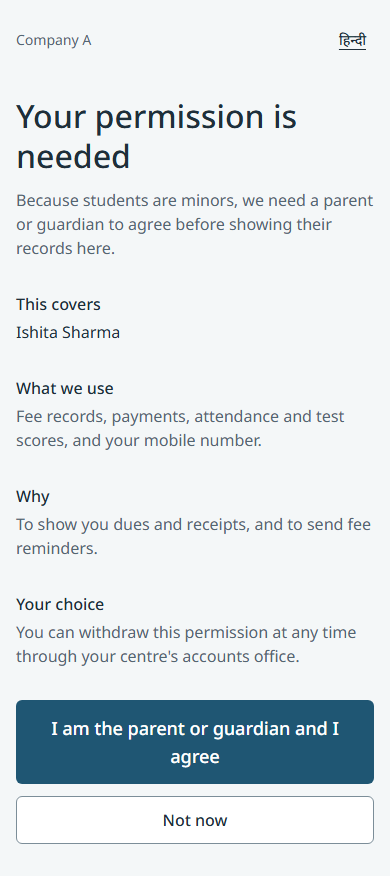
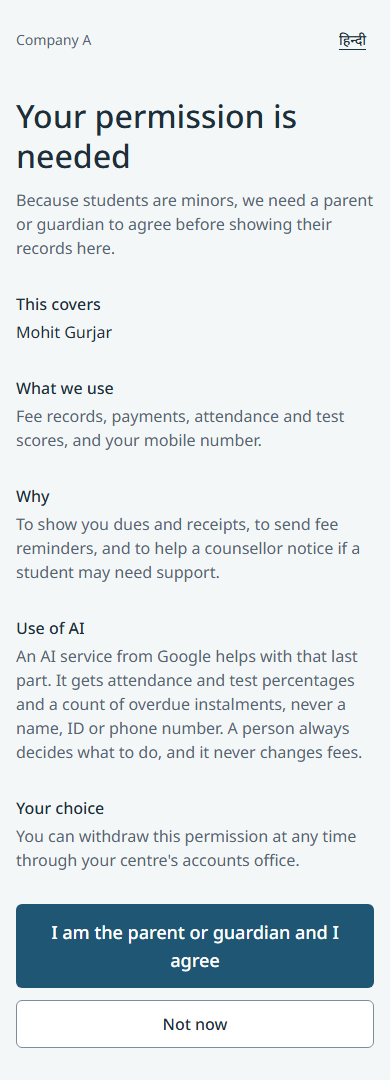
docs: record that the AI gives the flag

diff --git a/public/guide/index.html b/public/guide/index.html
@@ -157,7 +157,7 @@ dialog button { display: block; margin: 8px auto 0; }
     <button class="chip" data-show="reviewer" aria-pressed="false">Reviewer</button>
   </div>
   <div class="card figures">
-    <div><b>395</b><span>tests passing</span></div>
+    <div><b>412</b><span>tests passing</span></div>
     <div><b>60</b><span>fictional students</span></div>
     <div><b>130</b><span>days replayed</span></div>
     <div><b>81</b><span>receipts from real code</span></div>
@@ -236,7 +236,7 @@ dialog button { display: block; margin: 8px auto 0; }
   <p>A parent picks a language, enters their number and types the code. SMS is mocked, so the code shows on screen in the demo. Most students are minors, so nothing is shown until a parent agrees, as the DPDP Act 2023 needs.</p>
   <div class="phones">
     <figure><button data-zoom aria-label="Enlarge sign-in"><img src="img/sign-in.png" alt="Sign-in screen with language choice and mobile number" loading="lazy"></button><figcaption>One field and a language choice.</figcaption></figure>
-    <figure><button data-zoom aria-label="Enlarge consent"><img src="img/consent.png" alt="Consent screen naming the child and the data used" loading="lazy"></button><figcaption>Consent is stored per child, with a notice version.</figcaption></figure>
+    <figure><button data-zoom aria-label="Enlarge consent"><img src="img/consent.png" alt="Consent screen naming the child and the data used" loading="lazy"></button><figcaption>Consent is stored per child, with a notice version, and it names the use of AI.</figcaption></figure>
   </div>
 </section>
 
@@ -322,8 +322,8 @@ dialog button { display: block; margin: 8px auto 0; }
 
 <section id="tasks" data-for="accounts reviewer">
   <h2>Call tasks: the dropout-risk flag</h2>
-  <p>The flag reads missed instalments, falling attendance and test trends. It only ever creates a call task. It never touches fees and never messages a parent. Counsellors mark false flags, and with too little data it says so and creates no task.</p>
-  <p><b>Try it:</b> see how points become a band. Late fees alone never flag anyone.</p>
+  <p>Gemini gives the flag from missed instalments, falling attendance and test trends. It only ever creates a call task. It never touches fees and never messages a parent. Counsellors mark false flags, and with too little data it says so and creates no task.</p>
+  <p><b>Try it:</b> this is the plain rule that takes over when the AI is unsure. Late fees alone never flag anyone.</p>
   <div class="card">
     <div class="fields">
       <div class="field"><label for="rAtt">Attendance fall, points</label><input id="rAtt" type="number" min="0" max="100" value="41"></div>
@@ -337,21 +337,22 @@ dialog button { display: block; margin: 8px auto 0; }
 
 <section id="ai" data-for="reviewer accounts director">
   <h2>The AI layer</h2>
-  <p>The brief asks for AI that works, including when it is wrong or unsure. So the AI only ever drafts or suggests, and it lives inside the screens staff already use.</p>
+  <p>The brief says "an AI flag" and asks what happens when it is wrong or unsure. So Gemini gives the flag, code holds the brief's hard lines around it, and it all lives inside the screens staff already use.</p>
   <div class="scroll"><table>
     <tr><th>Part</th><th>What it does</th><th>When it is wrong or unsure</th></tr>
+    <tr><td>The flag</td><td>Gemini reads anonymous records and gives each student a band. On the sample it flagged a student the rule had passed</td><td>If it is unsure or fails, the rule decides, and the task says who decided. Too little data is never judged, and late fees alone cannot flag</td></tr>
     <tr><td>Batch baseline</td><td>Learns each batch's normal pattern, so a dip the whole batch shares, like exam week, is not blamed on anyone</td><td>Under 3 students it learns nothing, and the plain rule applies</td></tr>
     <tr><td>Learning from outcomes</td><td>The Risk Lab proposes better numbers from who left and which flags counsellors called false</td><td>A person decides. Under 3 cases it says so</td></tr>
     <tr><td>Call guide</td><td>Gemini drafts a guide in the parent's language</td><td>A draft with money talk, links or placeholders is thrown away for a plain template</td></tr>
     <tr><td>Payer notes</td><td>Gemini reads notes like "doosri kist ka advance", and our code matches them to real students</td><td>It only narrows a suggestion. Money stays unmatched until a person applies it</td></tr>
   </table></div>
   <div class="pair">
-    <figure><button data-zoom aria-label="Enlarge AI call guide"><img src="img/staff-tasks-ai.png" alt="Call tasks with AI drafted call guides, labelled as AI" loading="lazy"></button><figcaption>Real Gemini output, labelled as AI. The last task shows the plain fallback.</figcaption></figure>
+    <figure><button data-zoom aria-label="Enlarge AI call guide"><img src="img/staff-tasks-ai.png" alt="Call tasks with AI drafted call guides, labelled as AI" loading="lazy"></button><figcaption>Real Gemini output. Each task says whether AI or the rule gave it, and what the rule alone said.</figcaption></figure>
     <figure><button data-zoom aria-label="Enlarge AI note reading"><img src="img/staff-books-ai.png" alt="Accounts queue with a suggestion from a payer's note" loading="lazy"></button><figcaption>The note pointed to Mohit's second instalment. A person still decides.</figcaption></figure>
     <figure><button data-zoom aria-label="Enlarge learned numbers"><img src="img/staff-lab-learn.png" alt="Risk lab proposing better numbers" loading="lazy"></button><figcaption>Numbers learned from outcomes, proposed and never applied by itself.</figcaption></figure>
     <figure><button data-zoom aria-label="Enlarge audit of AI use"><img src="img/staff-audit.png" alt="Audit log showing what was sent to the model" loading="lazy"></button><figcaption>The audit log shows exactly what was sent: <code>NAME_1</code>, never the name.</figcaption></figure>
   </div>
-  <p class="note">Gemini never sees a name, ID or phone number, and the fee reason is never sent. With no key, or if the service fails, every step falls back to plain rules, so nothing breaks.</p>
+  <p class="note">Gemini never sees a name, ID, phone number or amount. It gets a made-up id, percentages and an overdue count, and parents are told this in the consent notice. With no key, or if the service fails, every step falls back to plain rules, so nothing breaks.</p>
 </section>
 
 <section id="console" data-for="reviewer">
@@ -403,7 +404,7 @@ dialog button { display: block; margin: 8px auto 0; }
 <section id="lab" data-for="reviewer director">
   <span class="tag">What sets it apart · 4</span>
   <h2>Risk lab</h2>
-  <p>There is no real dropout history to train on, and a model on invented data would give a fake accuracy number. So this page tests the rule instead: it replays the term using only what was known each day, and shows who it caught and who it missed. It can also propose better numbers from what really happened.</p>
+  <p>There is no real dropout history to train on, and a model trained on invented data would give a fake accuracy number. So this page tests the fallback rule: it replays the term using only what was known each day, and shows who it caught and who it missed. It can also propose better numbers from what really happened.</p>
   <div class="pair">
     <figure><button data-zoom aria-label="Enlarge lab"><img src="img/staff-lab-live.png" alt="Risk lab showing 4 of 6 leavers flagged" loading="lazy"></button><figcaption>4 of 6 leavers flagged, with 21 days' average warning. It shows the 2 it missed.</figcaption></figure>
     <figure><button data-zoom aria-label="Enlarge what-if"><img src="img/staff-lab.png" alt="Risk lab with changed numbers showing who would be added" loading="lazy"></button><figcaption>Change a number to see who would be added or dropped. Nothing changes live.</figcaption></figure>

diff --git a/docs/TDD.md b/docs/TDD.md
@@ -36,7 +36,7 @@ Fee Tracker gives parents their dues on a phone in five seconds, in Hindi or Eng
 | Manual payments | Built | Same matching code as the webhook |
 | Reminders that stop on payment | Built | Hindi and English, before, on and after, continuing until paid, with a mock sender |
 | Dues dashboard, ageing, Tally export | Built | Filters by centre and batch. CSV of receipts with GST split |
-| AI dropout-risk flag | Built | Band with reasons, learned batch baseline, and an AI call guide. Call tasks only, with false-flag marking and rate |
+| AI dropout-risk flag | Built | Gemini gives the flag, with rules as fallback. Call tasks only, with false-flag marking and rate |
 | Parent attendance and test scores | Built | Optional depth. Own page behind the instalments page, in Hindi and English |
 | Bulk upload of attendance and scores | Built | Optional depth. CSV per batch, with a preview and all-or-nothing saving |
 | Reviewer console | Built | Level-up. Time machine over the real pipeline, demo mode only |
@@ -108,7 +108,7 @@ The core choices are below. The level-up and data pipeline choices are in [decis
 
 ## 5. Data Model
 
-16 tables, 14 migrations. The core of it:
+16 tables, 15 migrations. The core of it:
 
 ```mermaid
 erDiagram
@@ -327,9 +327,9 @@ A separate page reached from the instalments page. It shows classes attended in 
 | Reminders | Built | Balance rechecked at send time. Failed sends are retried |
 | Dropout-risk flag | Built | Creates a call task only. Counsellors mark false flags. Too little data creates no task. The Risk Lab tests the rule |
 
-**Dropout-risk flag.** It runs daily from a protected route or a staff button, and reads missed instalments, attendance and test scores.
+**Dropout-risk flag.** Gemini gives the flag, and the rule below is its fallback. It runs daily from a protected route or a staff button, and reads missed instalments, attendance and test scores.
 
-- **Method:** transparent points in `src/domain/risk.ts`, measured against a learned batch baseline, not a trained model. There is no real dropout history to train on, and a counsellor must be able to see why a student was flagged. The AI layer below learns what it honestly can from the data available. The review data it collects is what a trained model would need later.
+- **Method:** one call per run sends Gemini each student with a sign, under a made-up id, as percentages and an overdue count. It returns a band, a confidence and a reason. The transparent points in `src/domain/risk.ts`, measured against a learned batch baseline, decide when it cannot. This is a general model judging records, not one trained on dropouts, because no such history exists.
 - **Attendance:** the last 4 weeks against earlier weeks. A fall of 15 points scores 1, and 30 points scores 2.
 - **Tests:** the last 2 tests against earlier tests. A fall of 10 points scores 1, and 20 points scores 2.
 - **Missed instalments:** 1 overdue scores 1, and 2 or more scores 2.
@@ -343,12 +343,15 @@ A separate page reached from the instalments page. It shows classes attended in 
 
 | Part | What it does | When it is wrong or unsure |
 |---|---|---|
+| The flag | Gemini gives the band for each student with a sign, and can add or clear a flag | Low confidence, a failure or no key means the rule decides, and the task says so. Too little data is never sent, late fees alone cannot flag, and figures come from our records |
 | Batch baseline | Learns each batch's typical fall, by median, and counts only a student's fall beyond it | Under 3 students, it learns nothing and the plain rule applies |
 | Learning from outcomes | Risk Lab tries about 150 sets of numbers against the term, scored on leavers caught and false flags | Under 3 cases it says so. It only proposes, and a person decides |
 | Call guide | Gemini drafts a guide in the parent's language | A draft mentioning money, or with links, numbers or placeholders, is replaced by the template |
 | Payer note | Gemini reads free text such as "doosri kist", and code matches it to real students | Hints only narrow a suggestion. Money stays unmatched until a person applies it |
 
-Gemini never sees a name, ID or phone number. Notes are masked first, and the fee reason is not sent. It has a 12 second limit, and with no key or a failure every step falls back to plain rules. Output is labelled as AI and recorded in the audit log. Its writes are limited to the call task, the note hints and the log, so it has no route to fees or parents.
+Gemini never sees a name, ID, phone number or amount. The flag gets a made-up id, percentages and an overdue count, notes are masked first, and call guides get no fee reason at all. Calls have a time limit, and with no key or a failure every step falls back to plain rules. Output is labelled as AI, and each task shows who decided and what the rule alone said. Its writes are limited to the call task, the note hints and the log, so it has no route to fees or parents.
+
+On the sample, Gemini agreed with the rule on three students, raised Pranav Saini from watch to high because his records stopped, and flagged Manav Bairwa, whom the rule passed. Replays stay offline, so the final demo day is judged live, and the Risk Lab tests the fallback rule, not Gemini.
 
 **Records that stop.** A student two weeks behind the latest attendance in the batch scores 2 points, as the strongest attendance sign. Comparing with the batch stops a late file from flagging a whole class. Each flag stores its rule version.
 
@@ -399,12 +402,12 @@ The 31 mockups are kept in `docs/mockups` as layout reference only. They contain
 
 ## 10. Testing
 
-395 tests pass, and CI runs lint, types, tests and a build on every push.
+412 tests pass, and CI runs lint, types, tests and a build on every push.
 
 | Suite | Tests | Covers |
 |---|---|---|
-| Unit | 234 | Fee, refund, exit dates, OTP, GST, matching, ledger totals, reminder rules, dues and ageing, Tally format, risk bands and missing data, replay and look-ahead, batch baseline, learned thresholds, AI guardrails, late share, suggestions, sessions, sample data, language files |
-| Database | 161 | The whole replayed term, AI drafts and fallbacks with the network faked, time machine, refund approval and credit notes, reversals, queue, month close, audit trigger, uploads, races, part payments, reminder stages and stopping, and that the flag changes nothing else |
+| Unit | 242 | Fee, refund, exit dates, OTP, GST, matching, ledger totals, reminder rules, dues and ageing, Tally format, risk bands and missing data, replay and look-ahead, batch baseline, learned thresholds, AI guardrails, late share, suggestions, sessions, sample data, language files |
+| Database | 170 | The whole replayed term, AI drafts and fallbacks with the network faked, time machine, refund approval and credit notes, reversals, queue, month close, audit trigger, uploads, races, part payments, reminder stages and stopping, and that the flag changes nothing else |
 
 Tests use the brief's own rows, so Aarav, Ishita and Mohit must produce exactly the brief's statuses. Main flows were also walked through in a real browser at 360px, in both languages.
 
@@ -458,7 +461,8 @@ The brief does not state these. Each one is my judgement.
 | Parent call measure | Shown as not tracked | The app has no call data |
 | Time machine | Demo only, forward only, in memory, shared by all viewers | Otherwise weeks of behaviour cannot be reviewed |
 | Batch baseline | Median fall in a batch of at least 3 is taken off each student's fall | A shared dip is not a sign of leaving |
-| Gemini use | Drafts and suggests only, with names masked and plain fallbacks | The brief asks for AI that handles being wrong |
+| Who gives the flag | Gemini, with the rule as fallback, and code holds the hard lines | The brief says an AI flag |
+| Gemini use | Anonymous facts only, with plain fallbacks | The brief asks for AI that handles being wrong |
 | Sample data | All records beyond the 3 brief rows are invented | The brief asks for created sample data |
 | Upload format | CSV, one batch and one kind per file, up to 200 KB and 2,000 rows | The brief names no format, and Excel saves CSV with no new dependency |
 | Upload checks | All or nothing, with a preview. Up to 50 classes a week and 1,000 marks, week start a Monday | One bad row usually means a bad file, and a wrong week would skew the risk flag |
@@ -501,6 +505,8 @@ The brief does not state these. Each one is my judgement.
 - Masking covers names held in English script, so a name typed in Devanagari in a payer's note would reach Gemini. A production rollout needs a data agreement with the provider, and a paid tier so inputs are not used for training.
 - Call guides are generic by design, because the model is given so little. Hindi drafts were checked by a developer, not a native speaker.
 - Learned numbers come from invented sample data, so they show the mechanism, not good thresholds.
+- Gemini's flag has not been tested against real dropouts, and the Risk Lab does not replay it. Its verdicts can vary between runs, which is why a person always decides what to do.
+- Whether flagging minors from their records is allowed under the DPDP Act's rules on monitoring children is a question for Company A's lawyer. The consent notice names the risk check and the AI service, but it is sample wording.
 
 **Cut:** a separate receipts list for parents, and promise-to-pay, which would invent a fee policy the client never stated.
 

diff --git a/CLAUDE.md b/CLAUDE.md
@@ -58,13 +58,15 @@ Label each of these in the Technical Design Document. Add new ones here as they 
 | Ageing buckets | 0–30, 31–60, 60+ days | The brief's success measure uses 60 days |
 | Centre names | Centre 1 to Centre 4 | The brief does not name them |
 | Counsellor | The accounts role handles call tasks | The brief lists only two roles |
-| Risk method | Transparent points, not a trained model. Attendance compares the last 4 weeks with earlier weeks, tests the last 2 with earlier tests. A fall of 15 or 30 points in attendance, or 10 or 20 in tests, scores 1 or 2, counted beyond what the batch itself lost. Missed instalments score 1 or 2. 2 points is watch, 4 is high | There is no real dropout history to train on, and a counsellor must see why |
+| Risk method | Gemini gives the band from anonymous records. Transparent points are the fallback: attendance compares the last 4 weeks with earlier weeks, tests the last 2 with earlier tests, a fall of 15 or 30 points in attendance, or 10 or 20 in tests, scores 1 or 2, counted beyond what the batch lost. Missed instalments score 1 or 2. 2 points is watch, 4 is high | The brief says an AI flag. There is no dropout history to train on, so a general model judges the records and rules stand by |
 | Late fees alone | Never flag a student, however many are missed | Reminders handle money, and being short of money is not a sign of leaving. Ishita's sample row shows this |
 | Too little data | Under 6 weeks of attendance, under 4 tests, or no fee plan | The brief says to say so, not how much is enough |
 | Records that stop | Two weeks behind the latest attendance in the batch scores 2 points, as the strongest attendance sign | A student who vanishes is the likeliest dropout, and a late file for a whole class must not flag everyone |
 | Batch baseline | The median fall in a batch, from at least 3 students, is learned from its records and taken off each student's fall | A dip the whole batch shares, such as exam week, is not a sign of leaving |
 | Learning from outcomes | The Risk Lab proposes numbers from who left and which flags were called false, with at least 3 such cases. A person decides | The brief says counsellors mark false flags, and live rules must not change on their own |
-| Gemini use | `gemini-2.5-flash` drafts call guides and reads payer notes. It only drafts or suggests. Student names are masked and the fee reason is never sent. Anything unsafe, late or failed falls back to plain templates and rules | The brief asks for AI that handles being wrong. Minors' data must not leave the system |
+| Who gives the flag | Gemini, with medium or high confidence. The rule decides if it is unsure, fails or there is no key, and each task says which. An open task is never removed by AI | The brief says an AI flag, and how it behaves when wrong or unsure |
+| Lines the AI cannot cross | Too little data is never judged. Late fees alone never flag. Figures on a flag come from our records. It only creates a call task | Hard rules from the brief stay in code, not in a prompt |
+| Gemini use | `gemini-2.5-flash` gives the flag, drafts call guides and reads payer notes. It gets a made-up id, percentages and an overdue count, never a name, ID, phone or amount. Call guides also leave out fees. Replays stay offline | The brief asks for AI that handles being wrong. Minors' data must not leave the system |
 | Refund approval | A second accounts user approves, enforced by a database check. No new role | The brief names two roles, and money going out needs two people |
 | Credit notes | Paying a refund issues a numbered credit note with GST split, and it goes to the Tally export. An accountant must confirm the treatment | The brief says receipts show GST, not how refunds treat it |
 | Reversals | A wrong payment is marked reversed, never deleted. The receipt shows as cancelled, a Reversal voucher goes to Tally on the reversal day, and future reminders restart. Refused once a student has left | Money must be corrected with a new entry, and a saved refund used that money |
@@ -77,7 +79,7 @@ Label each of these in the Technical Design Document. Add new ones here as they 
 | False flag note | Required, so the reason is on record | The brief says counsellors mark false flags, and the reason helps tune the rule |
 | OTP delivery | SMS is mocked. With `DEMO_MODE=true` the code shows on screen | The brief says to mock messages |
 | OTP limits | 5 minutes, 5 tries per code, 5 codes per number in 10 minutes | The brief asks for OTP login, not its limits |
-| Consent proof | OTP sign-in on the registered number, plus a stored, versioned record per child | The brief requires verifiable consent, not the method |
+| Consent proof | OTP sign-in on the registered number, plus a stored, versioned record per child. The notice names the risk check and the AI service | The brief requires verifiable consent, not the method |
 | GST | 18%, included in the fee, split into 9% CGST and 9% SGST, with a sample GSTIN | The brief says receipts show GST, not the rate or number |
 | Payment matching | A payment up to the balance is applied, as a part payment if smaller. More than the balance goes to the queue | The brief says a wrong amount marks nothing paid, and its sample data has part payments |
 | Manual payments | Must fit the balance, or they are refused and nothing is saved. Dates cannot be in the future | A staff typing mistake is not money that arrived, so it should not enter the queue |

diff --git a/docs/mistakes.md b/docs/mistakes.md
@@ -78,23 +78,32 @@ Passing tests did not catch the worst ones. Three times a test agreed with the b
 - **What happened:** the "AI flag" was fixed rules, and the first plan argued that was enough.
 - **How it was caught:** owner review, who asked whether an actual layer existed. It did not.
 - **Fix:** batch baselines and thresholds now learn from data, and Gemini drafts call guides and reads payer notes, all with fallbacks.
-- **Lesson:** an honest label does not replace the feature the brief asked for.
+- **Still wrong:** that layer sat around the flag, and rules still made the decision. Comparing it line by line with the brief showed this, and the owner was right to say the AI should give the flag.
+- **Final fix:** Gemini now gives the flag, code holds the hard lines, and rules are the fallback. On the sample it flagged a student the rule had passed.
+- **Lesson:** an honest label does not replace the feature the brief asked for. Compare against the brief's exact words before calling something done.
 
-### 11. The safety check blocked every good AI draft
+### 11. The consent notice did not cover the risk check or AI
+
+- **What happened:** the notice said data was used for dues and reminders only. It never mentioned the risk check, and then data started going to an AI provider.
+- **How it was caught:** comparing the build with the brief's DPDP line.
+- **Fix:** the notice now names both in Hindi and English, and its version went up, so parents agree again.
+- **Lesson:** a new use of data changes what parents agreed to, so check the notice whenever data use changes.
+
+### 12. The safety check blocked every good AI draft
 
 - **What happened:** the check rejected anything containing "fee", which also matched "**fee**ling". Every draft quietly became the template.
 - **How it was caught:** three live Gemini calls in a row showed "Standard guide". All the tests used fake replies that avoided the word.
 - **Fix:** whole-word matching, and a test for "feeling".
 - **Lesson:** test against real model output, not only replies you wrote yourself.
 
-### 12. Gemini left a placeholder in a draft
+### 13. Gemini left a placeholder in a draft
 
 - **What happened:** the first live draft said "calling from [Institute Name]".
 - **How it was caught:** reading the first real output.
 - **Fix:** the prompt forbids placeholders, and the check rejects brackets.
 - **Lesson:** a model's first real answer will show you a case you did not imagine.
 
-### 13. An empty API key would have crashed the app
+### 14. An empty API key would have crashed the app
 
 - **What happened:** `.env.example` ships `GEMINI_API_KEY=` empty, and validation refused an empty value, so the optional feature could stop the whole app starting.
 - **How it was caught:** running the tests with the key set to empty.
@@ -103,27 +112,27 @@ Passing tests did not catch the worst ones. Three times a test agreed with the b
 
 ## Process mistakes
 
-### 14. A commit went in with two failing tests
+### 15. A commit went in with two failing tests
 
 - **What happened:** one long command used `;` between steps, so the commit ran after tests had failed.
 - **How it was caught:** reading the output straight after.
 - **Fix:** it had not been pushed, so the commit was amended after the fix, and the history never carried a failing commit.
 - **Lesson:** gate commits with `&&`, so a failure stops the chain.
 
-### 15. Test data did not match its own story
+### 16. Test data did not match its own story
 
 - **What happened:** a test for "two weeks behind" failed. The code was right, but the test miscounted its own weeks.
 - **Fix:** corrected the test data after checking which side was wrong.
 - **Lesson:** a failing test is a question, not a verdict.
 
-### 16. Tests relied on local settings
+### 17. Tests relied on local settings
 
 - **What happened:** the time-machine tests passed locally only because `.env` turns demo mode on. CI has no such setting, so they would have failed after the push.
 - **How it was caught:** reading the CI file before pushing, then running the suite with CI's settings.
 - **Fix:** the tests now set up their own environment.
 - **Lesson:** check that tests pass with CI's settings, not only your own.
 
-### 17. Tooling friction
+### 18. Tooling friction
 
 | Problem | Recovery |
 |---|---|

diff --git a/docs/decisions.md b/docs/decisions.md
@@ -65,7 +65,7 @@ The data pipeline sits under all five, because a demo is only as honest as the w
 
 | Decision | Why | Rejected |
 |---|---|---|
-| Rules that learn, plus a tool to test them | A counsellor must see why, and a rule that can be checked beats a black box | A trained model on invented data |
+| A tool that tests the fallback rule | A counsellor must see why, and a rule that can be checked beats a black box | A trained model on invented data |
 | Replay sees only what was known that day | Otherwise the rule looks better than it was. This is the classic backtest mistake | Replaying on today's records |
 | What-if numbers change nothing live | Live rules change only through a reviewed code change | Editable thresholds |
 | "Late fees alone never flag" cannot be adjusted | It is a product rule, not a tuning number | Exposing it as a setting |
@@ -91,15 +91,22 @@ The data pipeline sits under all five, because a demo is only as honest as the w
 
 ## AI layer
 
-The brief asks for AI that works, including when it is wrong or unsure. So the model only ever drafts or suggests, and plain code decides what goes in and what comes out. There are no new screens: it sits inside Call tasks, Risk Lab and Close the Books.
+The brief says "an AI flag", and asks that it works, including when it is wrong or unsure. So Gemini gives the flag, and code holds the brief's hard lines around it. There are no new screens: it sits inside Call tasks, Risk Lab and Close the Books.
 
 | Decision | Why | Rejected |
 |---|---|---|
+| Gemini gives the flag | The brief asks for an AI flag, and it can read a pattern a threshold misses. On the sample it raised a student whose records stopped, and flagged one the rule passed | Rules deciding, with AI only assisting |
+| Hard lines stay in code, not in a prompt | A prompt can be ignored. Too little data is never sent, and late fees alone cannot flag, whatever the model says | Trusting the model to obey |
+| Figures come from our records | The model picks which signs matter, and code fills in the numbers, so it cannot invent a fact | Showing the model's numbers |
+| Rules are the fallback, and each task says who decided | Low confidence, a failure or no key means the rule decides, and staff can see that | A flag that hides its source |
+| AI can add or clear a flag, but never removes an open task | Someone may already be acting on it, so it stays and says the AI did not confirm it | Tasks vanishing overnight |
+| One anonymous call per run, for students with a sign | A made-up id, percentages and an overdue count. Cheap, private and fast | A call per student, or sending names |
+| Replays stay offline | A term is 130 days, and a reset must be fast and repeatable. The final demo day is judged live | Calling the model for every past day |
 | Learn each batch's normal pattern, using the median | A dip the whole batch shares, such as exam week, is not blamed on anyone. A median stops a few students in trouble hiding each other | Comparing a student only with themselves |
 | Learn thresholds from who left and from false flags | The false flags counsellors mark finally feed back into the rule | A rate nobody acts on |
 | Proposed numbers need a person to adopt them | A rule that silently rewrites itself cannot be trusted or explained | Self-updating thresholds |
 | Gemini drafts a call guide for staff | Turns flag facts into a warm opening, in the parent's language | Showing raw figures only |
-| The fee reason is never sent to the model | A counsellor's call must not turn into a fee action | Sending every reason |
+| Call guides never mention fees | A counsellor's call must not turn into a fee action, so the guide gets no fee reason | Sending every reason |
 | The model reads a payer's note, and our code does the matching | It handles Hinglish like "doosri kist", while hints are checked against real students, so it cannot invent one | Letting the model choose the student |
 | Names are masked before a note leaves | Most students are minors, so the model sees `NAME_1` | Sending the note as typed |
 | Every draft is checked before anyone sees it | No money talk, links, long numbers or placeholders. A failed check uses the template | Trusting model output |

diff --git a/docs/BRIEF-CHECK.md b/docs/BRIEF-CHECK.md
@@ -19,7 +19,7 @@ Every requirement in [the brief](brief.txt), its status in version 1.0.0 plus th
 | Dues dashboard | Met | `/staff/dues`, `src/domain/dues.ts` |
 | About 6 to 8 screens | Met | Sign-in, consent, parent home, pay and receipt, dues, ledger, refund, reminders and tasks |
 | Roles: parent and accounts executive | Met | `src/lib/auth.ts`, `src/domain/access.ts` |
-| AI: dropout-risk flag | Met | `/staff/tasks`, `src/domain/risk.ts`, `src/lib/ai.ts`. Learned batch baseline, thresholds learned from outcomes, and Gemini call guides, as TDD section 7 explains |
+| AI: dropout-risk flag | Met | `/staff/tasks`, `src/domain/risk.ts`, `src/lib/ai.ts`. Gemini gives the flag, with rules as the fallback and the hard lines in code, as TDD section 7 explains |
 | Hard part: instalment and pro-rata refund rules | Met | `src/domain/refund.ts`, with unit and database tests |
 | Payments, messages and outside systems mocked | Met | Test gateway, mock sender, CSV export |
 | Seeded from the sample data | Met | The three brief rows produce the brief's exact statuses, in `src/db/sample-data.test.ts` |
@@ -58,7 +58,7 @@ Every requirement in [the brief](brief.txt), its status in version 1.0.0 plus th
 |---|---|---|
 | Published refund policy | Met | `/refund-policy`, public, in both languages. Wording is a sample for Company A to confirm |
 | Pro-rata refund within 10 days of leaving | Met | `/staff/refunds` lists every refund by deadline, with second-person approval, a paid step and a credit note |
-| Verifiable parental consent, DPDP Act 2023 | Met | Stored per child with a notice version. Proves control of the phone, not guardianship |
+| Verifiable parental consent, DPDP Act 2023 | Met | Stored per child with a notice version, and the notice names the risk check and the AI service. Proves control of the phone, not guardianship |
 | Receipts show GST | Met | The rate and GSTIN are labelled samples |
 | Works on low-end phones | Partial | Designed at 360px and kept flat and light. Not measured on a real low-end phone |
 | Hindi required | Partial | On every parent screen and reminder. Wording still needs a native speaker |
@@ -88,7 +88,7 @@ The client's measures need live use for real results. The Scoreboard already wor
 | Requirement | Status | Notes |
 |---|---|---|
 | Frontend, backend, database, sign-in | Met | |
-| Tests for the important logic | Met | 395 tests |
+| Tests for the important logic | Met | 412 tests |
 | No secrets in the repository | Met | Full history checked |
 | Validated inputs and access control | Met | Checked on every read and write |
 | Sample data so it does not look empty | Met | 60 fictional students, replayed through the real pipeline |

diff --git a/context.md b/context.md
@@ -45,7 +45,7 @@ Fee Tracker: a 7-day solo assessment build for Company A, a Jaipur coaching inst
 | 11. Optional depth: parent attendance and scores, bulk upload | Done |
 | 12. Level-up: event pipeline and five differentiators | Done |
 
-Last verified: 395 tests pass (234 unit, 161 database), lint, types and the production build are clean, and the AI layer was exercised with live Gemini calls.
+Last verified: 412 tests pass (242 unit, 170 database), lint, types and the production build are clean, and the AI layer was exercised with live Gemini calls.
 
 ## Run it
 
@@ -90,7 +90,7 @@ Version 1.0.0 is tagged and released, and prompts 11 and 12 are on top of it, un
 - **`CLAUDE.md`, `prompt.md` and this file** stay tracked. The owner decided. The brief recommends AI tools and reads the commit history, so they are honest working records.
 
 - **Data pipeline:** sample data is replayed as events through the real entry points. Only enrolment is inserted directly. See `docs/decisions.md`.
-- **AI layer:** learned batch baselines and thresholds, and Gemini for call guides and payer notes, inside the existing screens. It only drafts or suggests, and falls back to plain rules. `GEMINI_API_KEY` is optional and lives in `.env`.
+- **AI layer:** Gemini gives the risk flag, with rules as fallback and the hard lines in code. It also drafts call guides and reads payer notes, and batch baselines and thresholds learn from data. All of it sits inside the existing screens. `GEMINI_API_KEY` is optional and lives in `.env`.
 - **Level-up:** the five items in `level-up.md` are built. No new dependency or role, and parent home is unchanged apart from a refund status line.
 
 ## How each prompt is done
@@ -131,7 +131,7 @@ Money is whole paise. Dates are `YYYY-MM-DD` strings.
 
 ## Sample data for later prompts
 
-- **Risk flag, triggers:** STU-1037 Neha Joshi, STU-1038 Chirag Joshi, STU-1039 Uday Meena, high. STU-1033 Uday Vyas and STU-1056 Pranav Saini, watch. The replay runs the check daily, so these five start as open call tasks.
+- **Risk flag, triggers:** STU-1037 Neha Joshi, STU-1038 Chirag Joshi, STU-1039 Uday Meena, high. STU-1033 Uday Vyas and STU-1056 Pranav Saini, watch. The replay runs the rule daily, then Gemini judges the demo date, so with a key it may add or change tasks. Manav Bairwa, STU-1021, was an AI-only flag.
 - **Records that stop:** STU-1056 Pranav Saini.
 - **Paid over 60 days late:** STU-1047 to STU-1049. The STU-1048 entry is reversed on 20 Oct.
 - **Left:** STU-1050 to STU-1055: inside the deadline, overdue, approved, paid on time, paid late, and ₹0.

diff --git a/docs/demo.md b/docs/demo.md
@@ -536,7 +536,7 @@ Tally is the accounting software the centres use. This export gives it a spreads
 
 - [ ] Click **Call tasks** in the menu.
 
-  **You should see:** **Open (5)**, including Chirag Joshi, Neha Joshi and Uday Meena as high, and Uday Vyas and Pranav Saini as watch. Each one shows the reasons and a number to call. The page says "No flags reviewed yet".
+  **You should see:** five or six open tasks, including Chirag Joshi, Neha Joshi and Uday Meena as high. Each one says whether AI or the rule gave it, and without a Gemini key they all say the rule. Each one shows the reasons and a number to call. The page says "No flags reviewed yet".
 
   <img src="screenshots/staff-tasks.png" alt="Call tasks page listing three high risk students" width="520">
 
@@ -546,7 +546,7 @@ Tally is the accounting software the centres use. This export gives it a spreads
 
 - [ ] Type `Student was ill and is back in class.` in the note and click **False flag**.
 
-  **You should see:** **Marked as a false flag.**, **Open (4)**, and "False flags: 1 of 1 reviewed (100%)."
+  **You should see:** **Marked as a false flag.**, one fewer open task, and "False flags: 1 of 1 reviewed (100%)."
 
 - [ ] On **Neha Joshi**, click **Called**. A note is optional here.
 
@@ -611,7 +611,7 @@ The sample files for this mission are in the `docs/samples` folder of the app.
 
 - [ ] Click **Call tasks**.
 
-  **You should see:** **Open (3)** and no task for Chirag Choudhary yet. Saving a file does not raise a flag by itself, so staff can finish entering a whole batch first.
+  **You should see:** no task for Chirag Choudhary yet. Saving a file does not raise a flag by itself, so staff can finish entering a whole batch first.
 
 - [ ] Click **Run risk check now**.
 

diff --git a/README.md b/README.md
@@ -37,7 +37,7 @@ A fee portal for Company A, a Jaipur coaching institute with 4 centres and 2,600
 - **Director scoreboard.** The client's own success measures, worked out from the records
 - **Refund desk.** Every refund against the 10-day deadline, with second-person approval and a GST credit note
 - **Risk lab.** Replays the rule using only what was known each day, and shows who it caught and who it missed
-- **An AI layer that can be wrong safely.** The flag learns each batch's pattern, the lab learns from outcomes, and Gemini drafts call guides and reads payer notes. It only suggests, never sees a name, and falls back to plain rules
+- **An AI flag that can be wrong safely.** Gemini gives the flag from anonymous records, drafts call guides and reads payer notes. It never sees a name, the brief's hard rules stay in code, and plain rules take over when it is unsure
 - **Close the books.** Month-end checks against the Tally file, reversals that delete nothing, and an append-only audit log
 
 **Built to fail safely**

diff --git a/CHANGELOG.md b/CHANGELOG.md
@@ -37,6 +37,8 @@
 
 ### AI layer
 
+- Gemini gives the dropout-risk flag from anonymous records. Rules are the fallback, and each task says who decided
+- The consent notice now names the risk check and the AI service, so parents agree again
 - The risk flag learns each batch's normal pattern, so a dip the whole batch shares is not blamed on anyone
 - The Risk Lab proposes better numbers from who left and which flags were false, and a person decides
 - Gemini drafts call guides in the parent's language, and reads payer notes in Hindi and English
@@ -58,7 +60,7 @@
 
 ### Quality
 
-- 395 tests: 234 unit and 161 database
+- 412 tests: 242 unit and 170 database
 - A hands-on test guide in [docs/demo.md](docs/demo.md), with sample files in `docs/samples`
 
 ## 1.0.0 (5 Nov 2026)
